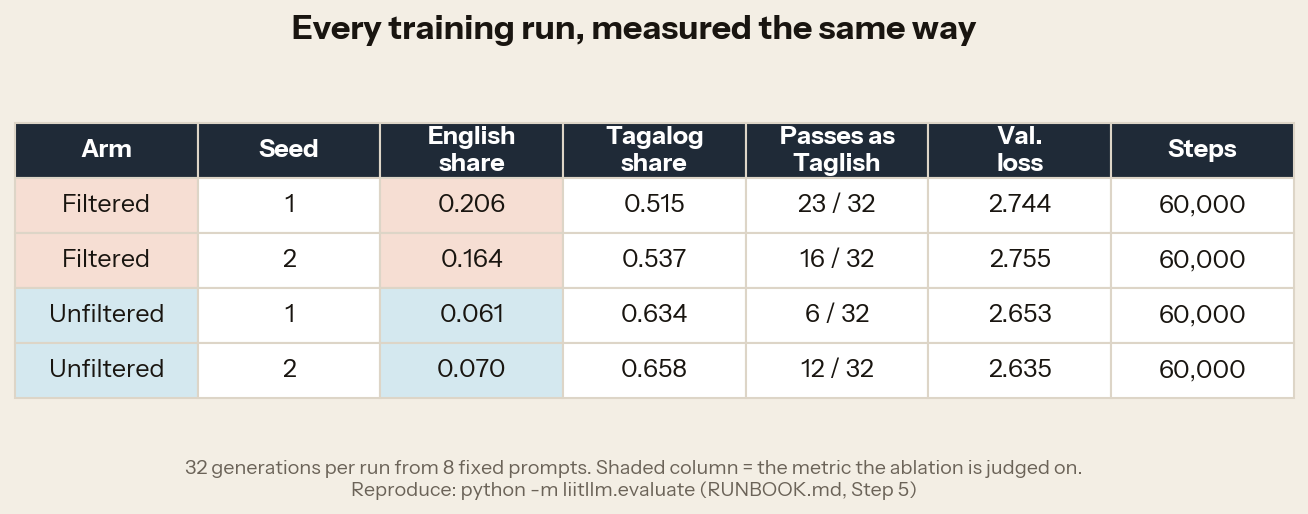
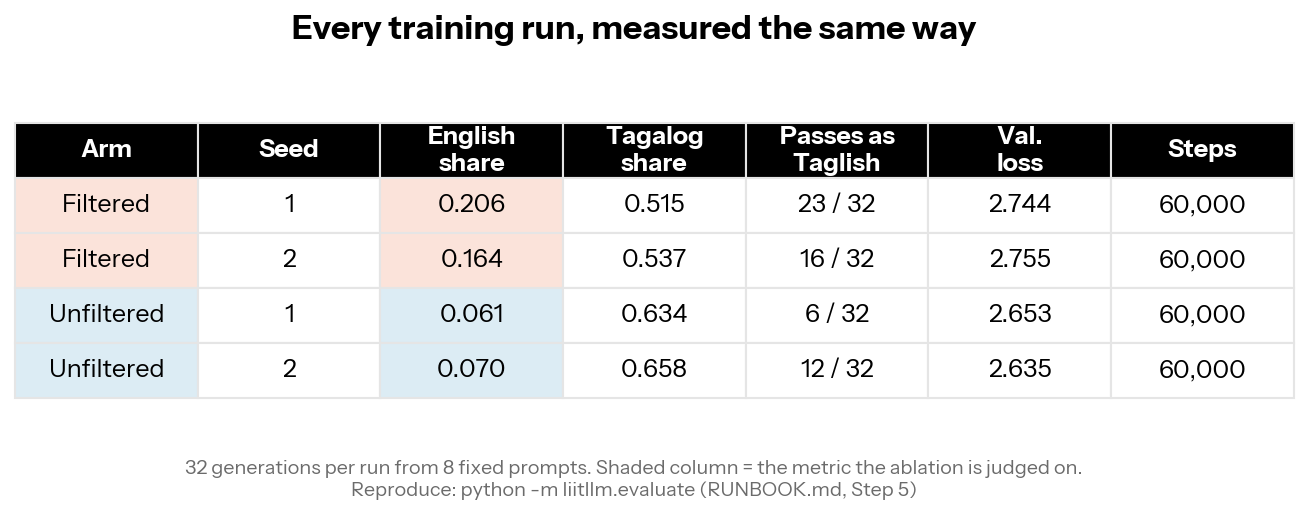
Move the case study to a black-and-white theme
White page with a black result band that inverts in dark mode; data colours
kept for Tagalog and English and re-validated against both backgrounds.
Result images redrawn on white to match.

diff --git a/docs/index.html b/docs/index.html
@@ -36,42 +36,31 @@
      ============================================================ */
   :root {
     color-scheme: light;
-    --paper:  #f3eee4;
-    --card:   #fffdf8;
-    --sunk:   #e8e1d3;
-    --ink:    #191510;
-    --ink-2:  #4a4136;
-    --ink-3:  #7a6f60;
-    --rule:   #ded6c6;
-    --rule-2: #c9bfab;
-    --clay:   #a8442a;
-    --tide:   #14657f;
-    --switch: #6b46c1;
-    --ash:    #8a2f4f;
-    --good:   #1c6b47;
-    --track:  #e2dacb;
-    --clay-w: #f6ded3;
-    --tide-w: #d4e8ef;
-    --sw-w:   #e4dbf9;
+    --paper: #ffffff; --card: #f7f7f7; --sunk: #efefef;
+    --ink: #000000; --ink-2: #333333; --ink-3: #6b6b6b;
+    --rule: #e5e5e5; --rule-2: #cccccc;
+    --clay: #b0401f; --tide: #0b6f99; --switch: #5b3cc4;
+    --ash: #a3244f; --good: #1c6b47; --track: #ececec;
+    --clay-w: #fbe3da; --tide-w: #dcecf4; --sw-w: #e8e1fb;
   }
   @media (prefers-color-scheme: dark) {
     :root:where(:not([data-theme="light"])) {
       color-scheme: dark;
-      --paper: #14120e; --card: #1e1a15; --sunk: #26211a;
-      --ink: #f6f1e7; --ink-2: #c0b6a5; --ink-3: #8b8171;
-      --rule: #302a22; --rule-2: #423a2f;
-      --clay: #ff8a5f; --tide: #5cc4e6; --switch: #b39aff;
-      --ash: #ff7fae; --good: #56d199; --track: #2b251d;
-      --clay-w: #4a2417; --tide-w: #123a48; --sw-w: #2f2657;
+    --paper: #000000; --card: #141414; --sunk: #1c1c1c;
+    --ink: #ffffff; --ink-2: #c8c8c8; --ink-3: #8f8f8f;
+    --rule: #262626; --rule-2: #3a3a3a;
+    --clay: #e6653a; --tide: #2aa0c9; --switch: #b39aff;
+    --ash: #ff7fae; --good: #56d199; --track: #222222;
+    --clay-w: #4a2417; --tide-w: #123a48; --sw-w: #2f2657;
     }
   }
   :root[data-theme="dark"] {
     color-scheme: dark;
-    --paper: #14120e; --card: #1e1a15; --sunk: #26211a;
-    --ink: #f6f1e7; --ink-2: #c0b6a5; --ink-3: #8b8171;
-    --rule: #302a22; --rule-2: #423a2f;
-    --clay: #ff8a5f; --tide: #5cc4e6; --switch: #b39aff;
-    --ash: #ff7fae; --good: #56d199; --track: #2b251d;
+    --paper: #000000; --card: #141414; --sunk: #1c1c1c;
+    --ink: #ffffff; --ink-2: #c8c8c8; --ink-3: #8f8f8f;
+    --rule: #262626; --rule-2: #3a3a3a;
+    --clay: #e6653a; --tide: #2aa0c9; --switch: #b39aff;
+    --ash: #ff7fae; --good: #56d199; --track: #222222;
     --clay-w: #4a2417; --tide-w: #123a48; --sw-w: #2f2657;
   }
 
@@ -166,7 +155,7 @@
 
   /* ---------------- the scorer widget ---------------- */
   .scorer {
-    background: var(--card); border: 1px solid var(--rule-2);
+    background: var(--card); border: 2px solid var(--ink);
     border-radius: 13px; overflow: hidden;
   }
   .scorer-head {
@@ -314,16 +303,27 @@
   /* The result band: dark in the light theme, raised in the dark theme. */
   .band {
     border-top: 0; padding: 72px 0 64px;
-    --paper: #191510; --card: #221d17; --sunk: #2b251d;
-    --ink: #f6f1e7; --ink-2: #cfc5b3; --ink-3: #9a8f7d;
-    --rule: #342d24; --rule-2: #4a4135;
-    --clay: #ff8a5f; --tide: #5cc4e6; --switch: #b39aff; --ash: #ff7fae;
-    --track: #2b251d; --clay-w: #4a2417; --tide-w: #123a48; --sw-w: #2f2657;
+    --paper: #000000; --card: #141414; --sunk: #1c1c1c;
+    --ink: #ffffff; --ink-2: #c8c8c8; --ink-3: #8f8f8f;
+    --rule: #262626; --rule-2: #3a3a3a;
+    --clay: #e6653a; --tide: #2aa0c9; --switch: #b39aff;
+    --ash: #ff7fae; --good: #56d199; --track: #222222;
+    --clay-w: #4a2417; --tide-w: #123a48; --sw-w: #2f2657;
     background: var(--paper); color: var(--ink);
   }
-  :root[data-theme="dark"] .band { --paper: #221d17; --card: #2b251d; }
+  :root[data-theme="dark"] .band { --paper: #ffffff; --card: #f7f7f7; --sunk: #efefef;
+    --ink: #000000; --ink-2: #333333; --ink-3: #6b6b6b;
+    --rule: #e5e5e5; --rule-2: #cccccc;
+    --clay: #b0401f; --tide: #0b6f99; --switch: #5b3cc4;
+    --ash: #a3244f; --good: #1c6b47; --track: #ececec;
+    --clay-w: #fbe3da; --tide-w: #dcecf4; --sw-w: #e8e1fb; }
   @media (prefers-color-scheme: dark) {
-    :root:where(:not([data-theme="light"])) .band { --paper: #221d17; --card: #2b251d; }
+    :root:where(:not([data-theme="light"])) .band { --paper: #ffffff; --card: #f7f7f7; --sunk: #efefef;
+    --ink: #000000; --ink-2: #333333; --ink-3: #6b6b6b;
+    --rule: #e5e5e5; --rule-2: #cccccc;
+    --clay: #b0401f; --tide: #0b6f99; --switch: #5b3cc4;
+    --ash: #a3244f; --good: #1c6b47; --track: #ececec;
+    --clay-w: #fbe3da; --tide-w: #dcecf4; --sw-w: #e8e1fb; }
   }
   .band .wrap { max-width: 1040px; }
   .band h2 { font-size: clamp(24px, 3.6vw, 34px); max-width: 22ch; }
@@ -357,7 +357,8 @@
   @media (min-width: 1320px) {
     /* Band content starts at the text column's left edge, clear of the rail. */
     .band .wrap { margin-left: calc(50% - 426px); margin-right: auto; }
-    .rail.on-band { --ink: #f6f1e7; --ink-3: #9a8f7d; --rule: #4a4135; }
+    .rail.on-band { --ink: #ffffff; --ink-3: #8f8f8f; --rule: #3a3a3a; }
+    :root[data-theme="dark"] .rail.on-band { --ink: #000000; --ink-3: #6b6b6b; --rule: #cccccc; }
     .rail { opacity: 0; pointer-events: none; transition: opacity .2s; }
     .rail.on { opacity: 1; pointer-events: auto; }
     .rail {

diff --git a/docs/template.html b/docs/template.html
@@ -36,42 +36,31 @@
      ============================================================ */
   :root {
     color-scheme: light;
-    --paper:  #f3eee4;
-    --card:   #fffdf8;
-    --sunk:   #e8e1d3;
-    --ink:    #191510;
-    --ink-2:  #4a4136;
-    --ink-3:  #7a6f60;
-    --rule:   #ded6c6;
-    --rule-2: #c9bfab;
-    --clay:   #a8442a;
-    --tide:   #14657f;
-    --switch: #6b46c1;
-    --ash:    #8a2f4f;
-    --good:   #1c6b47;
-    --track:  #e2dacb;
-    --clay-w: #f6ded3;
-    --tide-w: #d4e8ef;
-    --sw-w:   #e4dbf9;
+    --paper: #ffffff; --card: #f7f7f7; --sunk: #efefef;
+    --ink: #000000; --ink-2: #333333; --ink-3: #6b6b6b;
+    --rule: #e5e5e5; --rule-2: #cccccc;
+    --clay: #b0401f; --tide: #0b6f99; --switch: #5b3cc4;
+    --ash: #a3244f; --good: #1c6b47; --track: #ececec;
+    --clay-w: #fbe3da; --tide-w: #dcecf4; --sw-w: #e8e1fb;
   }
   @media (prefers-color-scheme: dark) {
     :root:where(:not([data-theme="light"])) {
       color-scheme: dark;
-      --paper: #14120e; --card: #1e1a15; --sunk: #26211a;
-      --ink: #f6f1e7; --ink-2: #c0b6a5; --ink-3: #8b8171;
-      --rule: #302a22; --rule-2: #423a2f;
-      --clay: #ff8a5f; --tide: #5cc4e6; --switch: #b39aff;
-      --ash: #ff7fae; --good: #56d199; --track: #2b251d;
-      --clay-w: #4a2417; --tide-w: #123a48; --sw-w: #2f2657;
+    --paper: #000000; --card: #141414; --sunk: #1c1c1c;
+    --ink: #ffffff; --ink-2: #c8c8c8; --ink-3: #8f8f8f;
+    --rule: #262626; --rule-2: #3a3a3a;
+    --clay: #e6653a; --tide: #2aa0c9; --switch: #b39aff;
+    --ash: #ff7fae; --good: #56d199; --track: #222222;
+    --clay-w: #4a2417; --tide-w: #123a48; --sw-w: #2f2657;
     }
   }
   :root[data-theme="dark"] {
     color-scheme: dark;
-    --paper: #14120e; --card: #1e1a15; --sunk: #26211a;
-    --ink: #f6f1e7; --ink-2: #c0b6a5; --ink-3: #8b8171;
-    --rule: #302a22; --rule-2: #423a2f;
-    --clay: #ff8a5f; --tide: #5cc4e6; --switch: #b39aff;
-    --ash: #ff7fae; --good: #56d199; --track: #2b251d;
+    --paper: #000000; --card: #141414; --sunk: #1c1c1c;
+    --ink: #ffffff; --ink-2: #c8c8c8; --ink-3: #8f8f8f;
+    --rule: #262626; --rule-2: #3a3a3a;
+    --clay: #e6653a; --tide: #2aa0c9; --switch: #b39aff;
+    --ash: #ff7fae; --good: #56d199; --track: #222222;
     --clay-w: #4a2417; --tide-w: #123a48; --sw-w: #2f2657;
   }
 
@@ -166,7 +155,7 @@
 
   /* ---------------- the scorer widget ---------------- */
   .scorer {
-    background: var(--card); border: 1px solid var(--rule-2);
+    background: var(--card); border: 2px solid var(--ink);
     border-radius: 13px; overflow: hidden;
   }
   .scorer-head {
@@ -314,16 +303,27 @@
   /* The result band: dark in the light theme, raised in the dark theme. */
   .band {
     border-top: 0; padding: 72px 0 64px;
-    --paper: #191510; --card: #221d17; --sunk: #2b251d;
-    --ink: #f6f1e7; --ink-2: #cfc5b3; --ink-3: #9a8f7d;
-    --rule: #342d24; --rule-2: #4a4135;
-    --clay: #ff8a5f; --tide: #5cc4e6; --switch: #b39aff; --ash: #ff7fae;
-    --track: #2b251d; --clay-w: #4a2417; --tide-w: #123a48; --sw-w: #2f2657;
+    --paper: #000000; --card: #141414; --sunk: #1c1c1c;
+    --ink: #ffffff; --ink-2: #c8c8c8; --ink-3: #8f8f8f;
+    --rule: #262626; --rule-2: #3a3a3a;
+    --clay: #e6653a; --tide: #2aa0c9; --switch: #b39aff;
+    --ash: #ff7fae; --good: #56d199; --track: #222222;
+    --clay-w: #4a2417; --tide-w: #123a48; --sw-w: #2f2657;
     background: var(--paper); color: var(--ink);
   }
-  :root[data-theme="dark"] .band { --paper: #221d17; --card: #2b251d; }
+  :root[data-theme="dark"] .band { --paper: #ffffff; --card: #f7f7f7; --sunk: #efefef;
+    --ink: #000000; --ink-2: #333333; --ink-3: #6b6b6b;
+    --rule: #e5e5e5; --rule-2: #cccccc;
+    --clay: #b0401f; --tide: #0b6f99; --switch: #5b3cc4;
+    --ash: #a3244f; --good: #1c6b47; --track: #ececec;
+    --clay-w: #fbe3da; --tide-w: #dcecf4; --sw-w: #e8e1fb; }
   @media (prefers-color-scheme: dark) {
-    :root:where(:not([data-theme="light"])) .band { --paper: #221d17; --card: #2b251d; }
+    :root:where(:not([data-theme="light"])) .band { --paper: #ffffff; --card: #f7f7f7; --sunk: #efefef;
+    --ink: #000000; --ink-2: #333333; --ink-3: #6b6b6b;
+    --rule: #e5e5e5; --rule-2: #cccccc;
+    --clay: #b0401f; --tide: #0b6f99; --switch: #5b3cc4;
+    --ash: #a3244f; --good: #1c6b47; --track: #ececec;
+    --clay-w: #fbe3da; --tide-w: #dcecf4; --sw-w: #e8e1fb; }
   }
   .band .wrap { max-width: 1040px; }
   .band h2 { font-size: clamp(24px, 3.6vw, 34px); max-width: 22ch; }
@@ -357,7 +357,8 @@
   @media (min-width: 1320px) {
     /* Band content starts at the text column's left edge, clear of the rail. */
     .band .wrap { margin-left: calc(50% - 426px); margin-right: auto; }
-    .rail.on-band { --ink: #f6f1e7; --ink-3: #9a8f7d; --rule: #4a4135; }
+    .rail.on-band { --ink: #ffffff; --ink-3: #8f8f8f; --rule: #3a3a3a; }
+    :root[data-theme="dark"] .rail.on-band { --ink: #000000; --ink-3: #6b6b6b; --rule: #cccccc; }
     .rail { opacity: 0; pointer-events: none; transition: opacity .2s; }
     .rail.on { opacity: 1; pointer-events: auto; }
     .rail {

diff --git a/docs/make_figures.py b/docs/make_figures.py
@@ -17,8 +17,8 @@ ROOT = Path(__file__).resolve().parent.parent
 OUT = ROOT / "docs" / "img"
 
 # Same hues as the page; blue nudged up so it passes the chroma check.
-CLAY, TIDE = "#a8442a", "#0b6f99"
-PAPER, INK, MUTED, GRID = "#f3eee4", "#191510", "#6b6358", "#ddd5c7"
+CLAY, TIDE = "#b0401f", "#0b6f99"
+PAPER, INK, MUTED, GRID = "#ffffff", "#000000", "#6b6b6b", "#e5e5e5"
 
 # Bundled so the images render the same on any machine (SIL OFL, see docs/fonts/OFL.txt).
 from matplotlib import font_manager
@@ -149,7 +149,7 @@ def runs_table():
     cells = [[a, str(s), f"{r['en_mean']:.3f}", f"{r['tl_mean']:.3f}",
               f"{round(r['taglish_share'] * r['n'])} / {r['n']}", f"{r['val_loss']:.3f}",
               f"{r['step']:,}"] for a, s, r in rows]
-    tint = {"Filtered": "#f6ded3", "Unfiltered": "#d4e8ef"}
+    tint = {"Filtered": "#fbe3da", "Unfiltered": "#dcecf4"}
 
     fig, ax = plt.subplots(figsize=(11, 3.6)); ax.axis("off")
     fig.suptitle("Every training run, measured the same way", fontsize=16, fontweight="bold", y=0.95)
@@ -158,7 +158,7 @@ def runs_table():
     for (i, j), cell in t.get_celld().items():
         cell.set_edgecolor(GRID)
         if i == 0:
-            cell.set_facecolor("#1f2a37"); cell.set_text_props(color="white", fontweight="bold")
+            cell.set_facecolor("#000000"); cell.set_text_props(color="white", fontweight="bold")
         else:
             cell.set_facecolor(tint[rows[i - 1][0]] if j in (0, 2) else "white")
     fig.text(0.5, 0.06, "32 generations per run from 8 fixed prompts. Shaded column = the metric the "
